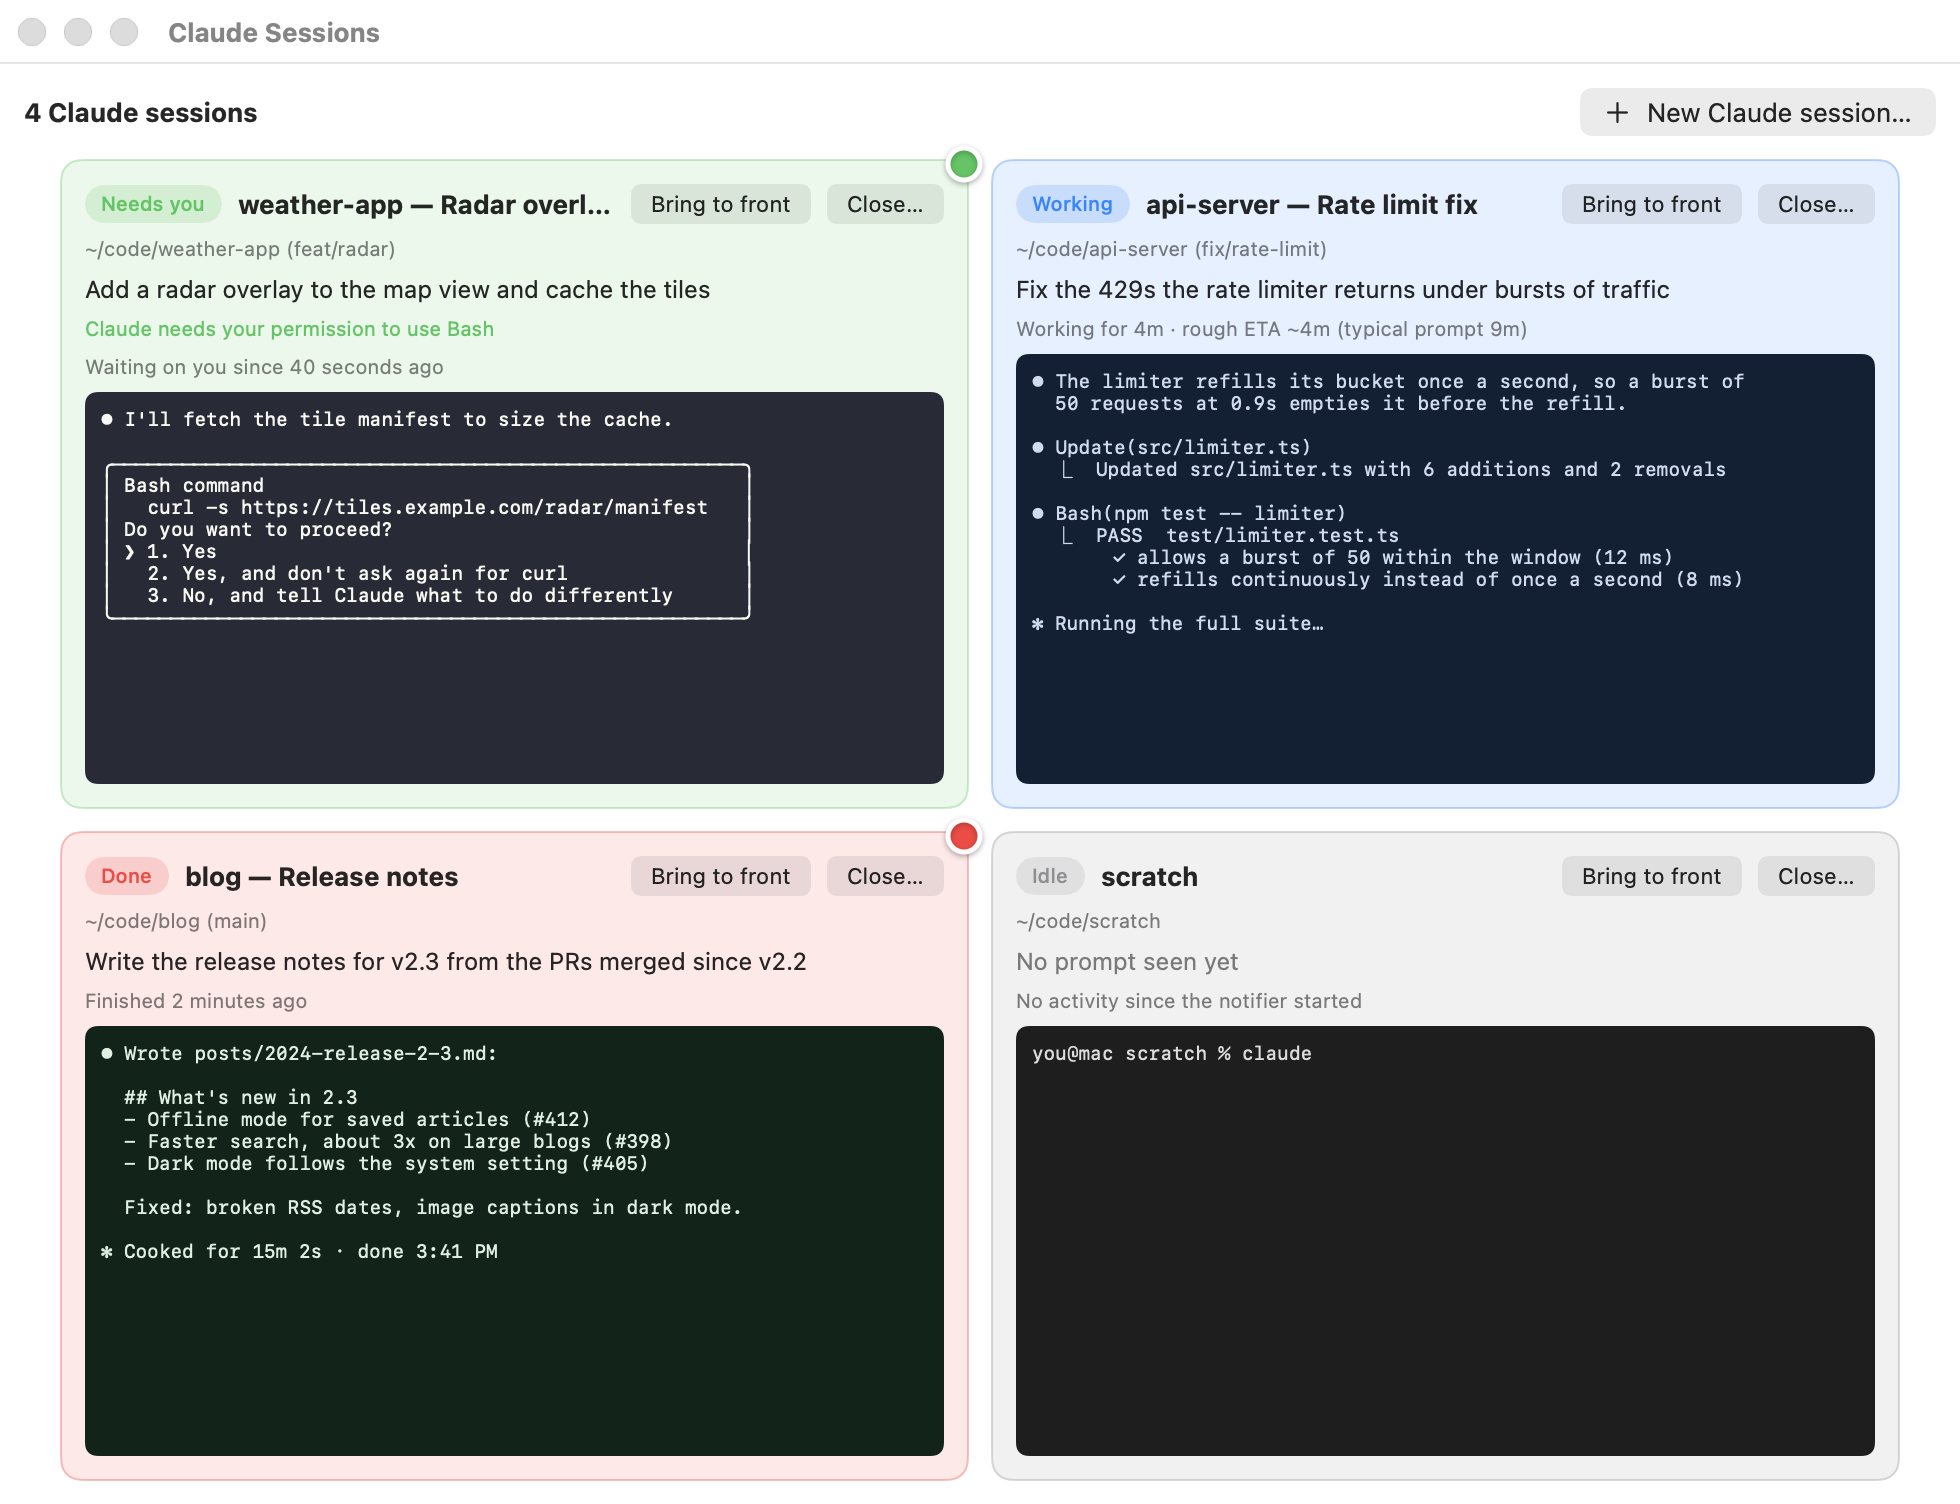
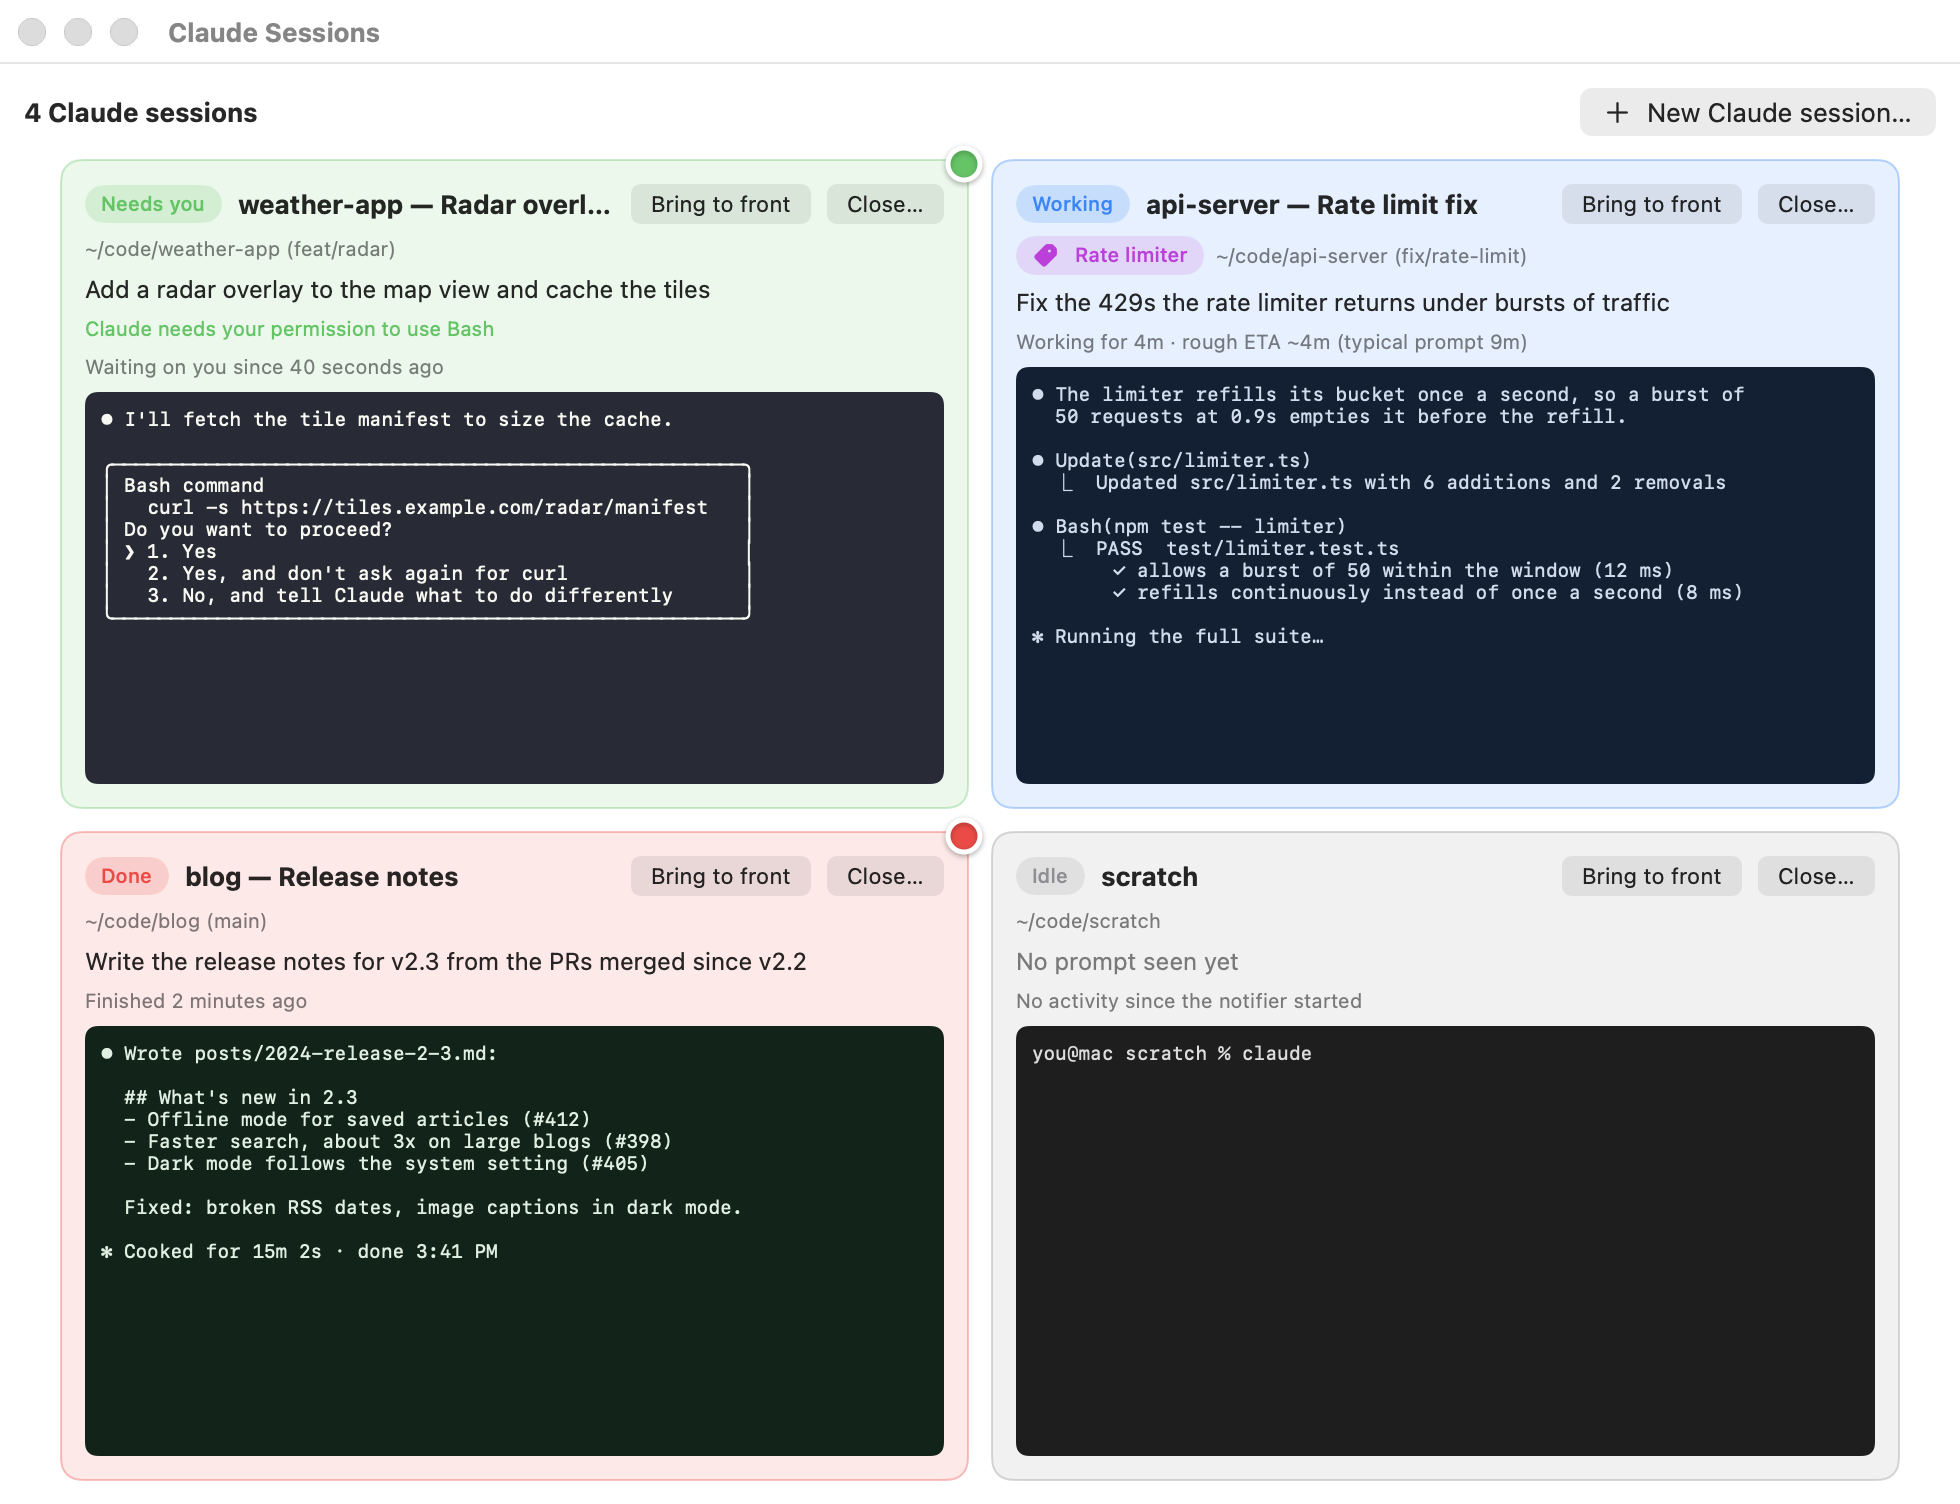
feat: Session labels

Changed region(s): [[0.498, 0.1562, 0.9648, 0.4375]]

diff --git a/ClaudeNotifier.swift b/ClaudeNotifier.swift
@@ -7,6 +7,7 @@ import SwiftUI
 
 let notifierDir = FileManager.default.homeDirectoryForCurrentUser.appendingPathComponent(".claude/notifier")
 let sessionsDir = notifierDir.appendingPathComponent("sessions")
+let labelsFile = notifierDir.appendingPathComponent("labels.json")
 
 /// Appends `message` to ~/.claude/notifier/notifier.log.
 func log(_ message: String) {
@@ -500,6 +501,14 @@ enum Terminal {
 
 // MARK: - Dashboard
 
+/// A label you gave a session, with its terminal and when its Claude started, to carry it over to the
+/// session that replaces it in that same Claude.
+struct SessionLabel: Codable, Equatable {
+    var text: String
+    var tty: String
+    var opened: Double?
+}
+
 final class DashboardModel: ObservableObject {
     @Published var sessions: [Session] = []
     @Published var tabs: [String: TerminalTab] = [:]
@@ -508,13 +517,56 @@ final class DashboardModel: ObservableObject {
     @Published var detail = ""
     /// The session you asked to close, awaiting your confirmation.
     @Published var closing: Session?
+    /// Your labels for sessions, by session id; shown on the dashboard only.
+    @Published var labels: [String: SessionLabel] = DashboardModel.loadLabels()
     /// Whether the dashboard is open, so polls update it.
     var visible = false
     private var fetching = false
 
+    func label(_ session: Session) -> String { labels[session.id]?.text ?? "" }
+
+    /// Sets or (when blank) removes a session's label, and saves them all.
+    func setLabel(_ text: String, for session: Session) {
+        let text = text.trimmingCharacters(in: .whitespacesAndNewlines)
+        labels[session.id] = text.isEmpty ? nil
+            : SessionLabel(text: text, tty: session.tty, opened: session.opened?.timeIntervalSince1970)
+        saveLabels()
+    }
+
+    /// A session that starts afresh in the same Claude (after /clear, say) gets a new id;
+    /// it keeps the label of the one it replaced, found by its terminal and Claude process.
+    private func carryLabels() {
+        var changed = false
+        for session in sessions where labels[session.id] == nil {
+            guard let opened = session.opened?.timeIntervalSince1970,
+                  let (old, label) = labels.first(where: { id, label in
+                      label.tty == session.tty && abs((label.opened ?? 0) - opened) < 2
+                          && !sessions.contains { $0.id == id }
+                  }) else { continue }
+            labels[session.id] = label
+            labels[old] = nil
+            changed = true
+        }
+        if changed { saveLabels() }
+    }
+
+    private static func loadLabels() -> [String: SessionLabel] {
+        guard let data = try? Data(contentsOf: labelsFile) else { return [:] }
+        return (try? JSONDecoder().decode([String: SessionLabel].self, from: data)) ?? [:]
+    }
+
+    private func saveLabels() {
+        let encoder = JSONEncoder()
+        encoder.outputFormatting = [.prettyPrinted, .sortedKeys]
+        try? encoder.encode(labels).write(to: labelsFile, options: .atomic)
+    }
+
     /// Takes in a poll's results, publishing only what changed, so views redraw only then.
     func apply(_ snapshot: Snapshot) {
-        if sessions != snapshot.sessions { sessions = snapshot.sessions }
+        if sessions != snapshot.sessions {
+            sessions = snapshot.sessions
+            carryLabels()
+        }
         if tabs != snapshot.tabs { tabs = snapshot.tabs }
         if let selected, let now = sessions.first(where: { $0.id == selected.id }), now != selected { self.selected = now }
     }
@@ -560,6 +612,22 @@ struct StatusPill: View {
             .padding(.vertical, 3)
             .background(Capsule().fill(color.opacity(0.18)))
             .foregroundStyle(color)
+    }
+}
+
+/// Your label for a session, as a tag beside its window's name.
+struct LabelTag: View {
+    let text: String
+
+    var body: some View {
+        Label(text, systemImage: "tag.fill")
+            .font(.caption.bold())
+            .lineLimit(1)
+            .padding(.horizontal, 8)
+            .padding(.vertical, 3)
+            .background(Capsule().fill(Color.purple.opacity(0.15)))
+            .foregroundStyle(.purple)
+            .fixedSize()
     }
 }
 
@@ -615,6 +683,7 @@ struct TerminalText: View {
 struct SessionCard: View {
     let session: Session
     let tabs: [String: TerminalTab]
+    var label = ""
     /// The card's size; its preview takes whatever height is left.
     let size: CGSize
     let open: () -> Void
@@ -632,8 +701,11 @@ struct SessionCard: View {
                     .controlSize(.small)
                     .help("Exit Claude in this window and close it, after you confirm")
             }
-            if !session.cwd.isEmpty {
-                Text(session.place).font(.caption).foregroundStyle(.secondary).lineLimit(1)
+            if !label.isEmpty || !session.cwd.isEmpty {
+                HStack(spacing: 6) {
+                    if !label.isEmpty { LabelTag(text: label) }
+                    Text(session.place).font(.caption).foregroundStyle(.secondary).lineLimit(1)
+                }
             }
             Text(session.task.isEmpty ? "No prompt seen yet" : session.task)
                 .font(.callout).lineLimit(2)
@@ -662,11 +734,13 @@ struct DetailView: View {
     @ObservedObject var model: DashboardModel
     let session: Session
     @State private var prompt: String
+    @State private var label: String
 
     init(model: DashboardModel, session: Session, prompt: String = "") {
         self.model = model
         self.session = session
         _prompt = State(initialValue: prompt)
+        _label = State(initialValue: model.label(session))
     }
 
     var body: some View {
@@ -685,7 +759,16 @@ struct DetailView: View {
             HStack {
                 StatusPill(state: session.state)
                 Text(session.name(model.tabs)).font(.title3.bold()).lineLimit(1)
+                if !label.trimmingCharacters(in: .whitespaces).isEmpty { LabelTag(text: label.trimmingCharacters(in: .whitespaces)) }
             }
+            HStack {
+                Text("Label").foregroundStyle(.secondary)
+                TextField("Label", text: $label, prompt: Text("Name this session on the dashboard…"))
+                    .textFieldStyle(.roundedBorder)
+                    .frame(maxWidth: 360)
+                    .onChange(of: label) { _, new in model.setLabel(new, for: session) }
+            }
+            .help("Shown on its card in this dashboard; kept until you clear it")
             if !session.cwd.isEmpty { Text(session.place).font(.callout).foregroundStyle(.secondary) }
             if !session.task.isEmpty { Text(session.task).font(.callout).lineLimit(4) }
             if session.state == "input" { Text(session.message).foregroundStyle(.green) }
@@ -822,6 +905,7 @@ struct DashboardView: View {
     @ViewBuilder var content: some View {
         if let session = model.selected {
             DetailView(model: model, session: session)
+                .id(session.id)
         } else {
             VStack(spacing: 0) {
                 HStack {
@@ -845,7 +929,7 @@ struct DashboardView: View {
                     spacing: GridLayout.spacing
                 ) {
                     ForEach(model.sessions) { session in
-                        SessionCard(session: session, tabs: model.tabs, size: layout.card,
+                        SessionCard(session: session, tabs: model.tabs, label: model.label(session), size: layout.card,
                                     open: { model.open(session) }, close: { model.closing = session })
                     }
                 }
@@ -1177,6 +1261,7 @@ enum Screenshots {
         pastDurations = { [300, 420, 540, 600, 720] }
         let (sessions, tabs) = demo()
         let model = DashboardModel()
+        model.labels = [sessions[1].id: SessionLabel(text: "Rate limiter", tty: sessions[1].tty)]
         model.sessions = sessions
         model.tabs = tabs
         save(DashboardView(model: model), title: "Claude Sessions", size: NSSize(width: 980, height: 720),

diff --git a/README.md b/README.md
@@ -69,6 +69,10 @@ Click a card for a larger, live view of the session's scrollback.
 
 From here you can:
 
+- **label it** — type a name in the **Label** field, say "Rate limiter". It shows
+  as a tag under the window's name on its card, and beside it here, and nowhere outside
+  the dashboard. It is kept until you clear it: after restarts, when you
+  resume the session, and after `/clear` in the same window;
 - **Bring to front** — focus the session's Terminal tab;
 - **send it a prompt** — type in the box at the bottom and press Send (or ⌘↩).
   It is typed into the session as if you had typed it there; if the session is
